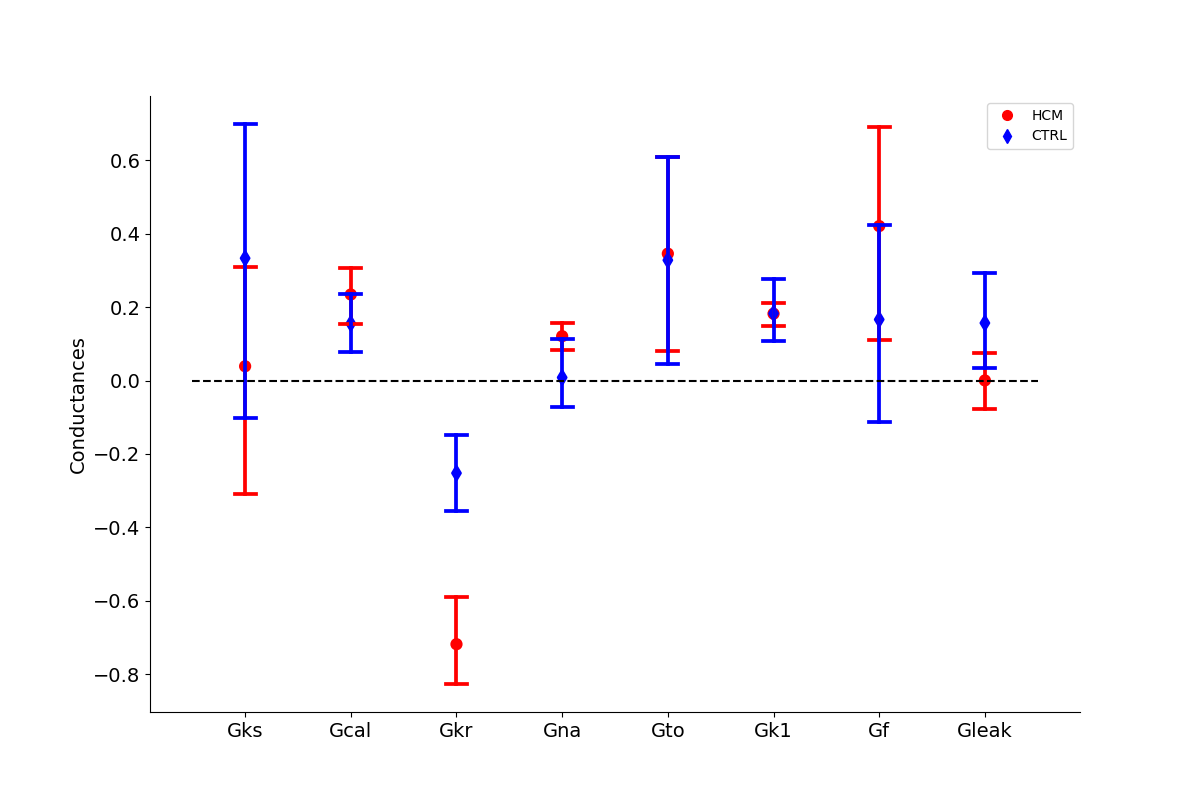
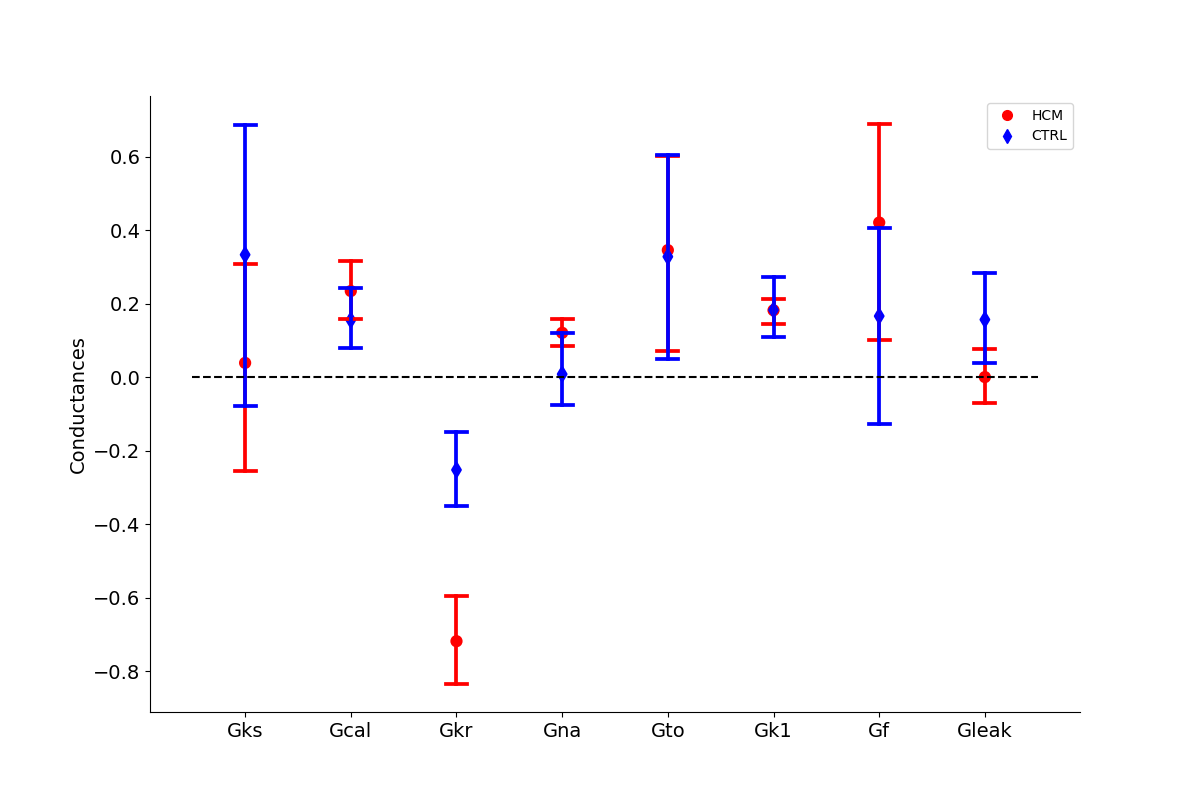
new

diff --git a/bar_plot.py b/bar_plot.py
@@ -5,6 +5,7 @@ import seaborn as sns
 from scipy.stats import ttest_ind
 from math import log10
 import numpy as np
+import matplotlib.lines as mlines
 
 ind_1, ind_2, ind_3, ind_4, ind_5, ind_6, ind_7, ind_8, ind_9, ind_10, ind_ctrl1, ind_ctrl2, ind_ctrl3, ind_ctrl4, ind_ctrl5, ind_ctrl6, ind_ctrl7, ind_ctrl8, ind_ctrl9, ind_ctrl10 = ind_excel()
 
@@ -48,8 +49,7 @@ axs.spines['top'].set_visible(False)
 
 sns.pointplot(df_hcm, join=False, capsize=.2, color='red')
 sns.pointplot(df_ctrl, join=False, capsize=.2, color='blue', markers='d')
-
-import matplotlib.lines as mlines
+sns.lineplot(linewidth=0.2)
 
 red_circle = mlines.Line2D([], [], color='red', marker='o', linestyle='None', markersize=7, label='HCM')
 blue_diamond = mlines.Line2D([], [], color='blue', marker='d', linestyle='None', markersize=7, label='CTRL')
